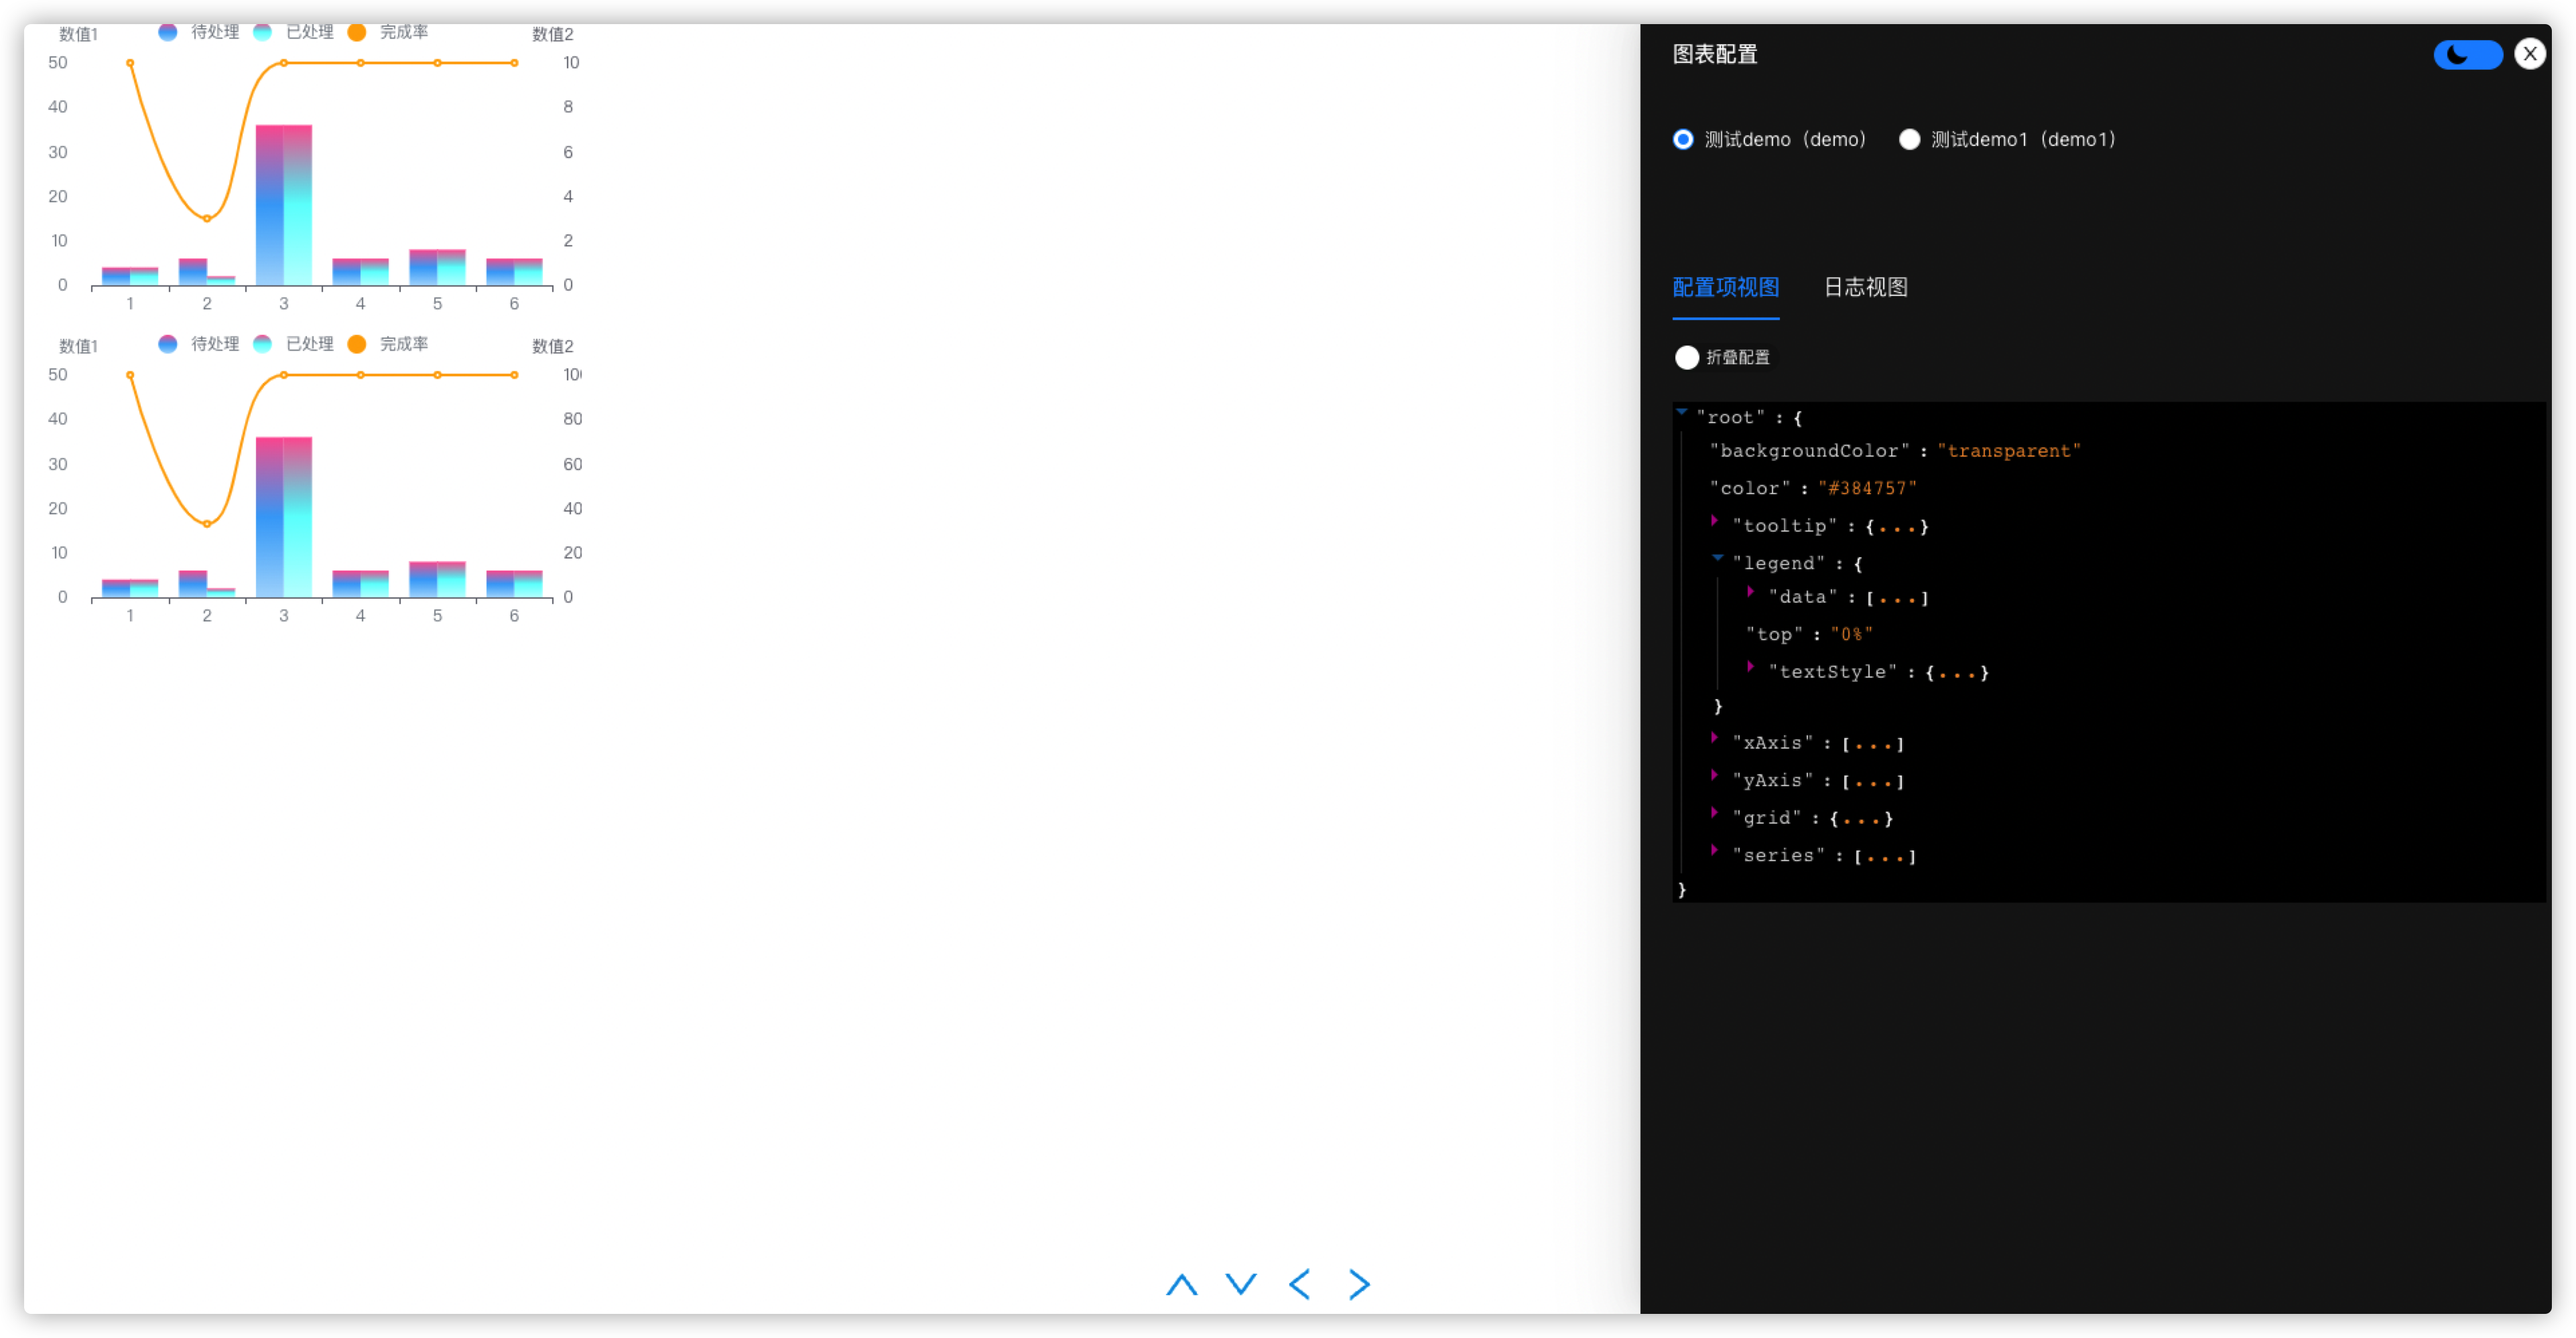
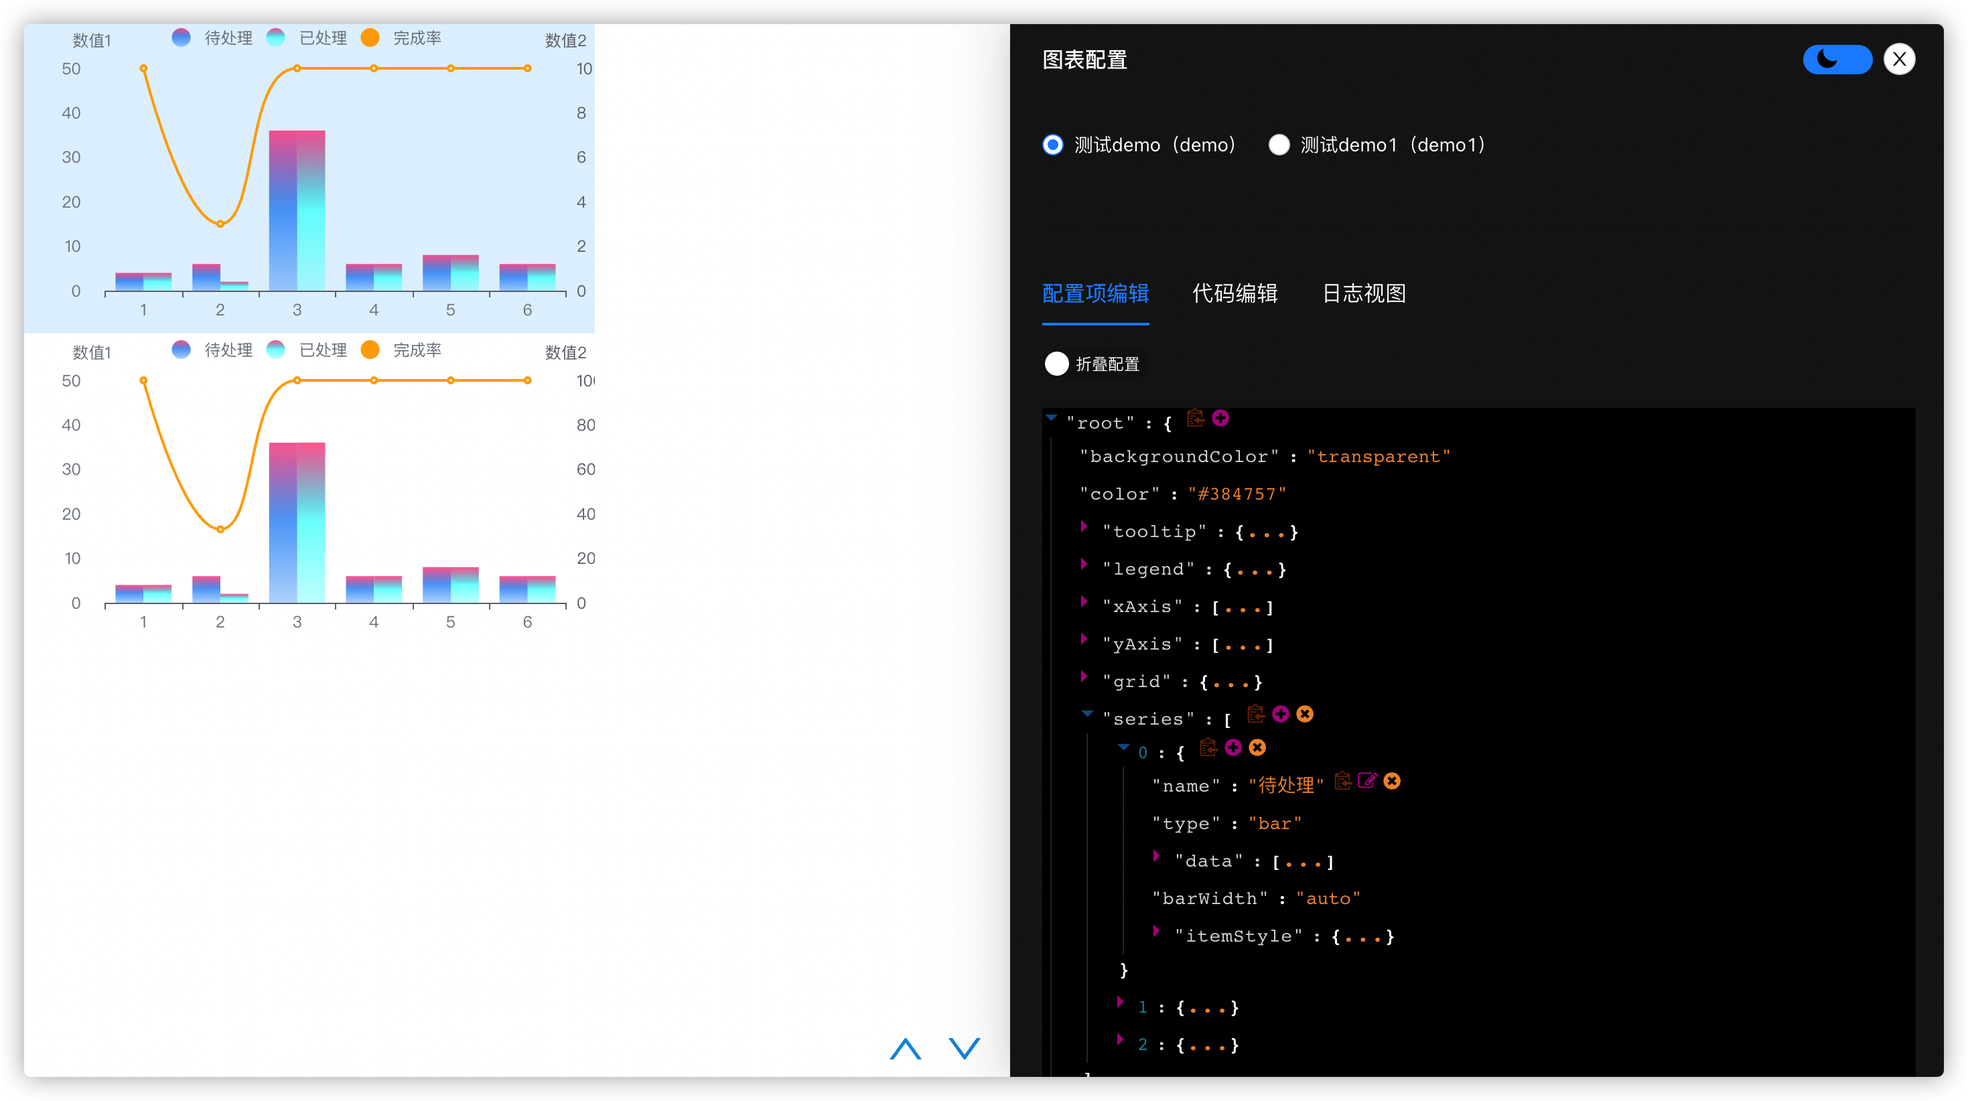
feat: update md

diff --git a/src/example/Demo/index.tsx b/src/example/Demo/index.tsx
@@ -1,3 +1,4 @@
+import { number } from 'echarts'
 import { useEffect } from 'react'
 import { useInjection, useEcharts } from '../../packages'
 

diff --git a/src/App.tsx b/src/App.tsx
@@ -1,3 +1,4 @@
+import { number } from 'echarts'
 import Contain from './example/Contain'
 
 const App = () => {

diff --git a/README.md b/README.md
@@ -10,9 +10,11 @@ writing ✏
 
 - Easy to learn and use
 - No-invasive
+- Dependent on updates
 - Log view monitoring
 - Visual debugging echarts options
 - Support multi-chart
+- Can customize the combination views
 
 ## 📦 Install
 
@@ -24,6 +26,8 @@ $ yarn add react-echarts-json
 
 ## 🔨 Usage
 
+Use the container that displays the view
+
 ```typescript
 import { EchartDefaultView } from 'react-echarts-json'
 
@@ -31,7 +35,7 @@ import { EchartDefaultView } from 'react-echarts-json'
 ;<EchartDefaultView />
 ```
 
-echarts View
+You need to inject the message of the echart(jsx or tsx)
 
 ```typescript
 import { useInjection } from 'react-echarts-json'
@@ -41,14 +45,54 @@ useInjection(
 		chart: chart,
 		option,
 		id: 'demo',
-		title: '测试demo',
+		name: '测试demo',
+		container: null, // partial
 	},
-	[deps]
+	[deps] // dependent
 )
+```
+
+## 👨💻👩🏻💻 Custom view
+
+You can customize your view through the components and hooks provided
+
+```typescript
+import {
+	useMedia,
+	useDarkMode,
+	useEcharts,
+	useInjection,
+	useChartSelect,
+	useChartEventEmitter,
+	useCreateEditor,
+	EchartDefaultView,
+	Editor,
+	LogView,
+	ReactEchartsJson,
+} from 'react-echarts-json'
+
+// EchartDefaultView --- Default view component
+
+// components
+// Editor --- code Editor Copomponent
+// LogView --- echart log
+// ReactEchartsJson --- echart option json view
+
+// hooks
+// useDarkMode --- dark theme
+// useMedia --- media
+// useEcharts --- for fast create demo
+// useChartSelect --- select active chart
+// useCreateEditor --- createEditor and run code # If you don t use the Editor component then you need to use this hook
+// useChartEventEmitter --- chart eventBus
+
+// # Can you use hook and component to customize the components you want.The EchartDefaultView component is made up of them.
 ```
 
 ## 🖼 View
 
 <img src="https://github.com/NelsonYong/react-echarts-json/blob/master/src/image/log.png?raw=true" alt="darl" style="zoom: 33%;" />
+
+<img src="https://github.com/NelsonYong/react-echarts-json/blob/master/src/image/code.png?raw=true" alt="darl" style="zoom: 33%;" />
 
 <img src="https://github.com/NelsonYong/react-echarts-json/blob/master/src/image/opt.png?raw=true" alt="log" style="zoom:33%;" />
